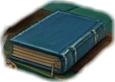
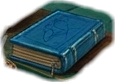
ver 1.68: transfer codes, nearest achievements, stronger colour differences
- Journal gets 引き継ぎ: export the save as a code and read it back (the
  current save is kept as a backup first); saves themselves are unchanged.
- Achievements show the two nearest goals and "あと◯" counts.
- Weak colour differences pushed further from the original picture
  (tools/diff-boost.ps1), also for red-green colour blindness; DIFF_BUILD 4.

Changed region(s): [[0.0783, 0.122, 0.8348, 0.7805], [0.8348, 0.4146, 0.8609, 0.439], [0.8348, 0.2683, 0.8609, 0.2927]]

diff --git a/index.html b/index.html
@@ -523,6 +523,7 @@ b.t0{color:#c89a62}b.t1{color:#7fe0b0}b.t2{color:var(--gold)}
 .page.ach.done{border-color:var(--gold);background:linear-gradient(90deg,rgba(201,163,74,.18),var(--panel2) 70%)}
 .page.ach.done b{color:var(--gold)}
 .abar{display:block;height:5px;margin-top:4px;border-radius:999px;background:#071012;overflow:hidden}
+.soon{width:100%;box-sizing:border-box;text-align:left;border:1px solid var(--gold);border-radius:12px;padding:8px 12px;background:rgba(201,163,74,.08);display:grid;gap:6px}   /* the next goals, at the top of the journal */.soon > b{font-size:12px;color:var(--gold);letter-spacing:.1em}.soon span{font-size:13px}.soon em{font-style:normal;color:var(--gold);font-weight:700}
 .abar i{display:block;height:100%;background:linear-gradient(90deg,#8a6d2a,var(--gold))}
 img.uic.ach{width:48px;height:48px}
 
@@ -744,6 +745,7 @@ body.focus .top{display:none}
 .danslist{text-align:left;margin:0 0 14px;padding-left:1.6em;font-size:14px;line-height:1.7}
 .danslist .dkind{display:inline-block;min-width:3.6em;margin-right:8px;padding:0 6px;border-radius:6px;background:#3a2326;color:#ffb3a8;font-size:12px;font-weight:800;text-align:center}
 .panel > *{flex-shrink:0}   /* a long window scrolls; nothing in it gets squeezed */
+.tcode{width:100%;box-sizing:border-box;font:12px/1.4 ui-monospace,monospace;background:#0b1a1d;color:var(--bone);border:1px solid var(--line);border-radius:10px;padding:8px;resize:vertical;word-break:break-all;-webkit-user-select:text;user-select:text;touch-action:auto}   /* the transfer code */
 .panel > .btn.primary,.panel [data-later],.panel > .btn.pair{min-width:240px;height:56px;padding-top:0;padding-bottom:0;box-sizing:border-box}
 .panel [data-later],.panel > .btn.pair{font-family:var(--f-display);font-size:17px;letter-spacing:.06em;margin-top:8px}
 /* Frames only where they mean something: the board keeps its frame; the header, requests and info panel are plain
@@ -3221,7 +3223,7 @@ const diffTitle = ch => DIFF_TITLES[diffIdx(ch)];
 const DIFF_KIND = { color: '色', gone: '消えた', add: '増えた', size: '大きさ', shape: '形', count: '数', pos: '位置', detail: '模様' };
 // f: piece number, x/y/w/h: where it goes, k: kind, lv: difficulty, t: what changed (shown in the answers)
 // Bump when the pieces are rebuilt, so no cached copy of an older piece is used.
-const DIFF_BUILD = 3;
+const DIFF_BUILD = 4;
 const DIFF_SETS = [
   [   // 0 tavern (built by tools/diff-build.ps1 from gen-raw/df0-final.json)
     { f: 0, x: 681, y: 636, w: 237, h: 178, k: 'color', lv: 1, t: '床のじゅうたんが赤から青に' },
@@ -3973,6 +3975,15 @@ function showHelp(topic, first, after) {
   $('panel').querySelectorAll('[data-topic]').forEach(b => b.addEventListener('click', () => showHelp(b.dataset.topic, false, after)));
 }
 
+// Achievements, unfinished ones first and the nearest to done at the top; the done ones last.
+const achLeft = a => { const [v, need] = a.p(); return Math.max(0, need - v) / need; };
+const achOrder = () => ACHS.slice().sort((a, b) => ((S.ach || []).includes(a.id) - (S.ach || []).includes(b.id)) || achLeft(a) - achLeft(b));
+// The two nearest unfinished achievements, shown at the top of the journal as a next goal.
+function achSoonHtml() {
+  const soon = achOrder().filter(a => !(S.ach || []).includes(a.id) && a.p()[0] > 0).slice(0, 2);
+  if (!soon.length) return '';
+  return `<div class="soon"><b>もうすぐ達成</b>${soon.map(a => { const [v, need] = a.p(); return `<span>${a.n}　<em>あと${need - Math.min(v, need)}</em><i class="abar"><i style="width:${Math.min(100, v / need * 100)}%"></i></i></span>`; }).join('')}</div>`;
+}
 function showDex() {
   S.dexSeen = dexCount(); save(); renderTop();   // everything in it now seen: the button stops glowing
   const total = CHAINS.length * (MAXT + 1);
@@ -4003,7 +4014,8 @@ function showDex() {
   showOverlay(`
     <p class="kicker">調査手帳</p>
     <h2>${TITLES[lv][1]}</h2>
-    <div class="htabs"><button class="btn tiny" type="button" id="jHelp">遊び方</button>${S.cleared ? `<button class="btn tiny" type="button" id="jEnd">エンディングをもう一度見る</button>` : ""}</div>
+    <div class="htabs"><button class="btn tiny" type="button" id="jHelp">遊び方</button><button class="btn tiny" type="button" id="jMove">引き継ぎ</button>${S.cleared ? `<button class="btn tiny" type="button" id="jEnd">エンディングをもう一度見る</button>` : ""}</div>
+    ${achSoonHtml()}
     <p class="muted">評価の★ 合計 ${ratingSum()}${next ? `　／　次の称号「${next[1]}」まで あと${next[0] - ratingSum()}` : '　／　最高の称号'}</p>
     <div class="dex"><div><h3>捜索録 <small class="muted">再調査で★★★を狙える（よくなった分だけほうび）${S.search ? '　※進行中の現場検証を終えてから' : ''}</small></h3><div class="pages">${pages}</div></div>
       <div><h3>依頼主 <small class="muted">依頼カードの名前をタップしても見られる</small></h3><div class="pages">${people}</div></div>
@@ -4013,7 +4025,7 @@ function showDex() {
       <div><h3>神話の手引き <small class="muted">${MYTHOS.filter((_, i) => mythOpen(i)).length} / ${MYTHOS.length}　章が進むと読める。<b>頁の切れ端</b>を3枚集めても1頁読める（いま ${(S.scraps || 0) % 3} / 3）</small></h3><div class="pages">${MYTHOS.map((m, i) => mythOpen(i)
         ? `<details class="page myth"><summary><b>${m.n}</b></summary><p>${m.d}</p></details>`
         : `<div class="page now"><div><b>？？？</b><small>${m.ch > 50 ? "頁の切れ端を集めると読める" : `第${m.ch + 1}章で読める`}</small></div></div>`).join('')}</div></div>
-      <div><h3>実績 <small class="muted">${(S.ach || []).length} / ${ACHS.length}　達成すると🪙や千里眼がもらえる</small></h3><div class="pages">${ACHS.map(a => { const [v, need] = a.p(), done = (S.ach || []).includes(a.id); return `<div class="page ach${done ? " done" : ""}"><div><b>${a.n}</b><small>${a.d}　${done ? "達成！" : `${Math.min(v, need)} / ${need}`}</small><i class="abar"><i style="width:${Math.min(100, v / need * 100)}%"></i></i></div><span class="rew">🪙${a.c}${a.e ? ` 👁${a.e}` : ""}</span></div>`; }).join("")}</div></div></div>
+      <div><h3>実績 <small class="muted">${(S.ach || []).length} / ${ACHS.length}　達成すると🪙や千里眼がもらえる</small></h3><div class="pages">${achOrder().map(a => { const [v, need] = a.p(), done = (S.ach || []).includes(a.id); return `<div class="page ach${done ? " done" : ""}"><div><b>${a.n}</b><small>${a.d}　${done ? "達成！" : `${Math.min(v, need)} / ${need}（あと${need - Math.min(v, need)}）`}</small><i class="abar"><i style="width:${Math.min(100, v / need * 100)}%"></i></i></div><span class="rew">🪙${a.c}${a.e ? ` 👁${a.e}` : ""}</span></div>`; }).join("")}</div></div></div>
     <h2 class="sub">図鑑 ${found} / ${total}</h2>
     <div class="lorebox" id="lorebox"><small>見つけた品をタップすると、クトゥルフ神話の解説が読める。</small></div>
     <div class="dex">${rows}</div>
@@ -4021,6 +4033,7 @@ function showDex() {
     <button class="btn tiny danger" type="button" id="resetBtn">データを消して最初から</button>
   `, hideOverlay);
   $('jHelp').addEventListener('click', () => showHelp('merge'));
+  $('jMove').addEventListener('click', () => showTransfer());
   // Each section of the record folds away (closed unless it was left open last time), so the journal stays short.
   const DEX_OPEN = 'rlyeh-dex-open';
   let open = {}; try { open = JSON.parse(localStorage.getItem(DEX_OPEN) || '{}'); } catch (e) {}
@@ -4058,6 +4071,67 @@ function showDex() {
   $('resetBtn').addEventListener('click', () => {
     if (!armed) { armed = true; $('resetBtn').textContent = '本当に消す（もとに戻せません）'; return; }
     newGame();
+  });
+}
+/* ================= transfer code: the whole save as text, to keep or to carry to another device ================= */
+// RLYEH2: + base64 of the deflated JSON where the browser can deflate; RLYEH1: + base64 of the plain JSON otherwise.
+const b64 = bytes => { let s = ''; for (let i = 0; i < bytes.length; i += 0x8000) s += String.fromCharCode.apply(null, bytes.subarray(i, i + 0x8000)); return btoa(s); };
+const unb64 = t => Uint8Array.from(atob(t), c => c.charCodeAt(0));
+async function pipeBytes(bytes, stream) {
+  const out = await new Response(new Blob([bytes]).stream().pipeThrough(stream)).arrayBuffer();
+  return new Uint8Array(out);
+}
+async function makeTransferCode() {
+  const json = new TextEncoder().encode(JSON.stringify(S));
+  if (window.CompressionStream) { try { return 'RLYEH2:' + b64(await pipeBytes(json, new CompressionStream('deflate-raw'))); } catch (e) {} }
+  return 'RLYEH1:' + b64(json);
+}
+async function readTransferCode(code) {
+  const t = String(code || '').replace(/\s+/g, '');
+  let bytes;
+  if (t.startsWith('RLYEH2:')) {
+    if (!window.DecompressionStream) throw new Error('この端末では読めない形式です');
+    try { bytes = await pipeBytes(unb64(t.slice(7)), new DecompressionStream('deflate-raw')); } catch (e) { bytes = null; }
+  } else if (t.startsWith('RLYEH1:')) { try { bytes = unb64(t.slice(7)); } catch (e) { bytes = null; } }
+  else throw new Error('引き継ぎコードではないようです');
+  let s = null;
+  try { if (bytes) s = JSON.parse(new TextDecoder().decode(bytes)); } catch (e) { s = null; }
+  if (!s || s.v !== 2 || !Array.isArray(s.cells) || typeof s.ch !== 'number') throw new Error('セーブデータとして読めませんでした');
+  return s;
+}
+function showTransfer() {
+  showOverlay(`
+    <p class="kicker">調査手帳</p>
+    <h2>引き継ぎ</h2>
+    <p class="lore">いまの調査の記録を、ひとつながりの「引き継ぎコード」にして持ち出せる。メモやメールに貼って残しておけば、データが消えたときや別の端末でも、続きから遊べる。</p>
+    <button class="btn gold pair" type="button" id="tMake">コードを書き出す</button>
+    <textarea class="tcode" id="tCode" rows="4" spellcheck="false" placeholder="ここに引き継ぎコードが出る。読み込むときは、ここに貼りつける"></textarea>
+    <p class="muted" id="tMsg"></p>
+    <button class="btn pair" type="button" id="tLoad">このコードを読み込む</button>
+    <p class="muted">読み込むと、いまの記録はコードの記録に置きかわる。</p>
+    <button class="btn primary" type="button" data-go>とじる</button>
+  `, showDex);
+  const msg = m => { $('tMsg').textContent = m; };
+  $('tMake').addEventListener('click', async () => {
+    save();
+    const code = await makeTransferCode();
+    $('tCode').value = code;
+    $('tCode').select();
+    let copied = false;
+    try { await navigator.clipboard.writeText(code); copied = true; } catch (e) {}
+    msg(copied ? `コピーした（${code.length}文字）。メモなどに貼って残しておこう` : `書き出した（${code.length}文字）。全部選んでコピーしておこう`);
+  });
+  let armed = false;
+  $('tLoad').addEventListener('click', async () => {
+    let s;
+    try { s = await readTransferCode($('tCode').value); } catch (e) { msg(e.message || '読み込めませんでした'); armed = false; return; }
+    const where = `${s.ch >= FINAL_CH ? '最終章' : `第${s.ch + 1}章`}・コイン ${s.coins}・図鑑 ${Object.keys(s.dex || {}).length}`;
+    if (!armed) { armed = true; $('tLoad').textContent = '本当に置きかえる'; msg(`コードの記録：${where}。もう一度押すと、いまの記録と置きかわる`); return; }
+    try {
+      localStorage.setItem(SAVE_KEY + '-before-transfer', localStorage.getItem(SAVE_KEY) || '');   // one step back, just in case
+      localStorage.setItem(SAVE_KEY, JSON.stringify(s));
+    } catch (e) { msg('保存できませんでした'); return; }
+    location.reload();
   });
 }
 $('dexBtn').addEventListener('click', showDex);
@@ -4098,7 +4172,7 @@ function hideTitle() {
   t.classList.add('gone');
   setTimeout(() => { t.hidden = true; }, 600);
 }
-const APP_VERSION = 'ver 1.67';   // shown on the title screen; bump with each release
+const APP_VERSION = 'ver 1.68';   // shown on the title screen; bump with each release
 function showTitle(hasSave) {
   $('tver').textContent = APP_VERSION;
   const t = $('title');

diff --git a/sw.js b/sw.js
@@ -1,7 +1,7 @@
 // Offline support for the home-screen install.
 // The page itself is network-first (so updates show up right away when online); images are cache-first.
 // Bump VERSION when assets change so old caches are dropped.
-const VERSION = 'rlyeh-v48';
+const VERSION = 'rlyeh-v49';
 self.addEventListener('install', e => {
   e.waitUntil(caches.open(VERSION).then(c => c.addAll(['./', 'index.html', 'manifest.webmanifest'])).then(() => self.skipWaiting()));
 });
